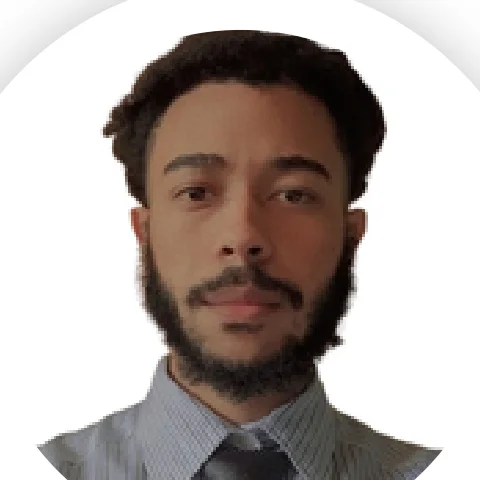
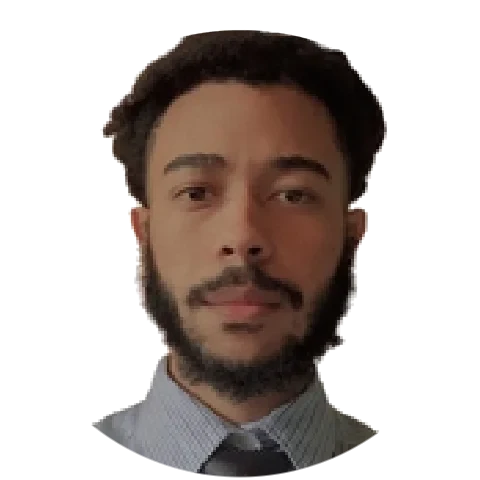
updated profile 02

diff --git a/src/app/admin/admin-panel.ts b/src/app/admin/admin-panel.ts
@@ -25,10 +25,20 @@ interface FormState {
   email: string;
   cvUrl: string;
   photo: string;
+  photoBackground: string;
   aboutEs: string;
   aboutEn: string;
   socials: Record<string, string>;
 }
+
+/** Fondos rápidos para la foto (el selector de color admite cualquier otro). */
+const PHOTO_BACKGROUNDS = [
+  { label: 'Blanco', value: '#ffffff' },
+  { label: 'Gris claro', value: '#f5f5f7' },
+  { label: 'Oscuro', value: '#1c1c1e' },
+  { label: 'Degradado', value: 'linear-gradient(140deg, #2997ff, #7d7aff, #ff4f9a)' },
+  { label: 'Transparente', value: 'transparent' },
+];
 
 /** Tamaño de la foto guardada dentro de content.json. */
 const PHOTO_SIZE = 512;
@@ -59,6 +69,12 @@ export class AdminPanel {
   private readonly dialog = viewChild.required<ElementRef<HTMLDialogElement>>('dialog');
 
   protected readonly socialLinks = SOCIAL_LINKS;
+  protected readonly photoBackgrounds = PHOTO_BACKGROUNDS;
+  /** El selector de color solo entiende hex: con un degradado muestra el blanco. */
+  protected readonly photoColor = computed(() => {
+    const value = this.form().photoBackground;
+    return /^#[0-9a-f]{6}$/i.test(value) ? value : '#ffffff';
+  });
   protected readonly form = signal<FormState>(this.readCurrentValues());
   protected readonly saved = signal(false);
   protected readonly photoWarning = computed(() => this.form().photo.length > PHOTO_WARNING_BYTES);
@@ -147,6 +163,11 @@ export class AdminPanel {
     set('email', form.email.trim(), !form.email.trim() || form.email.trim() === this.defaults.email);
     set('cvUrl', form.cvUrl.trim(), !form.cvUrl.trim() || form.cvUrl.trim() === this.defaults.cvUrl);
     set('photo', form.photo, !form.photo || form.photo === PROFILE.photo);
+    set(
+      'photoBackground',
+      form.photoBackground,
+      !form.photoBackground || form.photoBackground === PROFILE.photoBackground,
+    );
 
     const headline = { es: form.headlineEs.trim(), en: form.headlineEn.trim() };
     set('headline', headline, headline.es === this.defaults.headlineEs && headline.en === this.defaults.headlineEn);
@@ -179,6 +200,7 @@ export class AdminPanel {
       email: overrides.email ?? PROFILE.email,
       cvUrl: overrides.cvUrl ?? PROFILE.cvUrl,
       photo: overrides.photo ?? PROFILE.photo,
+      photoBackground: overrides.photoBackground ?? PROFILE.photoBackground,
       aboutEs: (overrides.about?.es ?? UI_STRINGS.es.about.paragraphs).join('\n\n'),
       aboutEn: (overrides.about?.en ?? UI_STRINGS.en.about.paragraphs).join('\n\n'),
       socials: Object.fromEntries(SOCIAL_LINKS.map((link) => [link.id, overrides.socials?.[link.id] ?? link.url])),

diff --git a/src/app/admin/admin-panel.html b/src/app/admin/admin-panel.html
@@ -15,7 +15,13 @@
       <section class="group">
         <h3><app-icon name="user" /> Foto de la tarjeta</h3>
         <div class="photo">
-          <img [src]="form().photo || 'images/profile.webp'" alt="Vista previa de la foto" width="96" height="96" />
+          <img
+            [src]="form().photo || 'images/profile.webp'"
+            [style.background]="form().photoBackground"
+            alt="Vista previa de la foto"
+            width="96"
+            height="96"
+          />
           <div class="photo__actions">
             <label class="btn btn--glass btn--sm">
               <app-icon name="download" />
@@ -41,6 +47,36 @@
         @if (photoWarning()) {
           <p class="warn"><app-icon name="zap" /> La foto es pesada. Descárgala y guárdala como <code>public/images/profile.webp</code> en su lugar.</p>
         }
+
+        <div class="bg">
+          <span class="bg__label">Fondo de la foto</span>
+          <div class="bg__options">
+            <label class="bg__picker" title="Elegir un color">
+              <input
+                #bgColor
+                type="color"
+                [value]="photoColor()"
+                aria-label="Color del fondo de la foto"
+                (input)="update('photoBackground', bgColor.value)"
+              />
+            </label>
+            @for (option of photoBackgrounds; track option.value) {
+              <button
+                type="button"
+                class="bg__swatch"
+                [class.is-active]="form().photoBackground === option.value"
+                [class.is-transparent]="option.value === 'transparent'"
+                [style.background]="option.value === 'transparent' ? null : option.value"
+                [attr.aria-pressed]="form().photoBackground === option.value"
+                [title]="option.label"
+                (click)="update('photoBackground', option.value)"
+              >
+                <span class="visually-hidden">{{ option.label }}</span>
+              </button>
+            }
+          </div>
+        </div>
+        <p class="hint">La foto está recortada, así que este color es lo que se ve detrás de ti en la tarjeta.</p>
       </section>
 
       <!-- Datos -->

diff --git a/src/app/admin/admin-panel.css b/src/app/admin/admin-panel.css
@@ -100,6 +100,76 @@
   cursor: pointer;
 }
 
+/* ---------- Fondo de la foto ---------- */
+.bg {
+  display: flex;
+  flex-wrap: wrap;
+  align-items: center;
+  gap: 0.75rem;
+  margin-top: 1rem;
+}
+.bg__label {
+  font-size: 0.8rem;
+  font-weight: 500;
+  color: var(--text-2);
+}
+.bg__options {
+  display: flex;
+  align-items: center;
+  gap: 0.4rem;
+}
+.bg__picker,
+.bg__swatch {
+  width: 2rem;
+  height: 2rem;
+  padding: 0;
+  border-radius: 0.6rem;
+  border: 1px solid var(--border-strong);
+  cursor: pointer;
+  overflow: hidden;
+}
+.bg__picker {
+  display: grid;
+  place-items: center;
+  background:
+    conic-gradient(#ff375f, #ffd60a, #30d158, #0a84ff, #bf5af2, #ff375f);
+}
+.bg__picker input {
+  width: 180%;
+  height: 180%;
+  border: 0;
+  padding: 0;
+  background: none;
+  cursor: pointer;
+  opacity: 0;
+}
+/* El damero indica que no habrá color detrás de la foto. */
+.bg__swatch.is-transparent {
+  background-image:
+    linear-gradient(45deg, var(--fill-strong) 25%, transparent 25%),
+    linear-gradient(-45deg, var(--fill-strong) 25%, transparent 25%),
+    linear-gradient(45deg, transparent 75%, var(--fill-strong) 75%),
+    linear-gradient(-45deg, transparent 75%, var(--fill-strong) 75%);
+  background-size: 10px 10px;
+  background-position:
+    0 0,
+    0 5px,
+    5px -5px,
+    -5px 0;
+}
+.bg__swatch.is-active {
+  outline: 2px solid var(--accent);
+  outline-offset: 2px;
+}
+.visually-hidden {
+  position: absolute;
+  width: 1px;
+  height: 1px;
+  overflow: hidden;
+  clip-path: inset(50%);
+  white-space: nowrap;
+}
+
 .fields {
   display: grid;
   grid-template-columns: repeat(2, minmax(0, 1fr));

diff --git a/src/app/sections/about/about.css b/src/app/sections/about/about.css
@@ -33,6 +33,9 @@
   border-radius: 50%;
   background: conic-gradient(from var(--angle, 0deg), var(--accent), var(--accent-2), var(--accent-3), var(--accent));
   animation: spin-ring 6s linear infinite;
+  /* Solo se pinta el aro: así, con la foto sin fondo, se ve lo que hay detrás. */
+  -webkit-mask: radial-gradient(circle closest-side, transparent calc(100% - 5px), #000 calc(100% - 4px));
+  mask: radial-gradient(circle closest-side, transparent calc(100% - 5px), #000 calc(100% - 4px));
 }
 .profile__photo img {
   display: block;
@@ -40,7 +43,7 @@
   height: 100%;
   border-radius: 50%;
   object-fit: cover;
-  background: #fff;
+  background: var(--photo-bg, #fff);
   border: 4px solid var(--bg-elevated);
 }
 

diff --git a/src/app/core/content.service.ts b/src/app/core/content.service.ts
@@ -31,6 +31,7 @@ export class ContentService {
   readonly email = computed(() => this.overrides().email?.trim() || PROFILE.email);
   readonly cvUrl = computed(() => this.overrides().cvUrl?.trim() || PROFILE.cvUrl);
   readonly photo = computed(() => this.overrides().photo?.trim() || PROFILE.photo);
+  readonly photoBackground = computed(() => this.overrides().photoBackground?.trim() || PROFILE.photoBackground);
   readonly headline = computed(() => this.pick(this.overrides().headline) || PROFILE.headline[this.i18n.lang()]);
   readonly location = computed(() => this.pick(this.overrides().location) || this.i18n.t().hero.location);
 

diff --git a/src/app/core/content.service.spec.ts b/src/app/core/content.service.spec.ts
@@ -22,6 +22,16 @@ describe('ContentService', () => {
     expect(content.hasDraft()).toBeFalse();
   });
 
+  it('permite cambiar el fondo de la foto', () => {
+    expect(content.photoBackground()).toBe(PROFILE.photoBackground);
+
+    content.saveDraft({ photoBackground: 'transparent' });
+    expect(content.photoBackground()).toBe('transparent');
+
+    content.saveDraft({ photoBackground: '  ' });
+    expect(content.photoBackground()).toBe(PROFILE.photoBackground);
+  });
+
   it('parte el nombre para la portada', () => {
     expect(content.nameParts()).toEqual({ first: 'Jose', rest: 'Matos' });
   });

diff --git a/src/app/three/particle-scene.ts b/src/app/three/particle-scene.ts
@@ -34,6 +34,14 @@ import type { ParticleEngine, SceneLayout } from './particle-engine';
       pointer-events: none;
       opacity: 0;
       transition: opacity 1.2s ease;
+      /*
+       * El lienzo vive en su propia capa de composición. Sin esto, algunos
+       * navegadores dejan trozos sin repintar (cuadros grises) al combinar
+       * WebGL con los desenfoques de las tarjetas de cristal.
+       */
+      transform: translateZ(0);
+      will-change: transform;
+      contain: strict;
     }
     :host(.is-ready) {
       opacity: 1;

diff --git a/src/app/sections/about/about.html b/src/app/sections/about/about.html
@@ -2,7 +2,7 @@
   <div class="container about">
     <div class="profile" appReveal>
       <article class="profile__card card" appTilt="5">
-        <div class="profile__photo">
+        <div class="profile__photo" [style.--photo-bg]="content.photoBackground()">
           <img [src]="content.photo()" [alt]="t().a11y.photo" width="480" height="480" loading="lazy" decoding="async" />
         </div>
         <h3 class="profile__name">{{ content.name() }}</h3>

diff --git a/src/app/data/content-overrides.ts b/src/app/data/content-overrides.ts
@@ -22,6 +22,8 @@ export interface ContentOverrides {
   cvUrl?: string;
   /** Ruta de la foto (`images/…`) o una imagen incrustada en formato data URL. */
   photo?: string;
+  /** Color o degradado CSS detrás de la foto. */
+  photoBackground?: string;
   /** Párrafos de la sección "Sobre mí". */
   about?: Localized<readonly string[]>;
   /** Enlaces de redes sociales, por id: `{ "github": "https://…" }`. */

diff --git a/src/app/data/profile.ts b/src/app/data/profile.ts
@@ -23,6 +23,8 @@ export const PROFILE = {
     en: 'Technical Operations & Automation Specialist',
   } satisfies Localized,
   photo: 'images/profile.webp',
+  /** Fondo detrás de la foto (se nota porque la foto está recortada). */
+  photoBackground: '#ffffff',
   email: 'junior_er@hotmail.es',
   phone: '+1 809 360 3722',
   whatsappNumber: '18093603722',

diff --git a/README.md b/README.md
@@ -21,8 +21,8 @@ especializado en automatización de datos y operaciones técnicas.
   inferior tipo iOS en móvil.
 - **Accesible**: navegación por teclado, enlace para saltar al contenido,
   etiquetas ARIA y respeto de `prefers-reduced-motion`.
-- **Panel de edición privado** (`#admin`): cambia la foto, los textos y los
-  enlaces del sitio sin tocar código.
+- **Panel de edición privado** (`#admin`): cambia la foto y su fondo, los textos
+  y los enlaces del sitio sin tocar código.
 - **Rápido**: Three.js se carga de forma diferida (≈ 89 kB comprimidos en la
   carga inicial) y la animación se pausa cuando la pestaña no está visible.
 
@@ -150,6 +150,18 @@ Dos formas, la que prefieras:
    512×512 y se guarda dentro de `content.json`.
 2. **Reemplazando el archivo**: guarda tu foto como `public/images/profile.webp`
    (cuadrada, 512×512 recomendado).
+
+### Cambiar el fondo de la foto
+
+La foto de la tarjeta está recortada (sin fondo), así que puedes elegir qué se
+ve detrás: en el panel de edición hay un selector de color y cinco atajos
+(blanco, gris claro, oscuro, degradado y transparente). También puedes fijarlo
+en `photoBackground` dentro de `src/app/data/profile.ts`; acepta cualquier valor
+CSS, incluidos degradados.
+
+> Si subes una foto nueva y quieres que el fondo se note, la imagen tiene que
+> tener transparencia (PNG o WebP con canal alfa). Si tiene fondo sólido, ese
+> fondo tapará el color elegido.
 
 ### Textos de la interfaz
 
